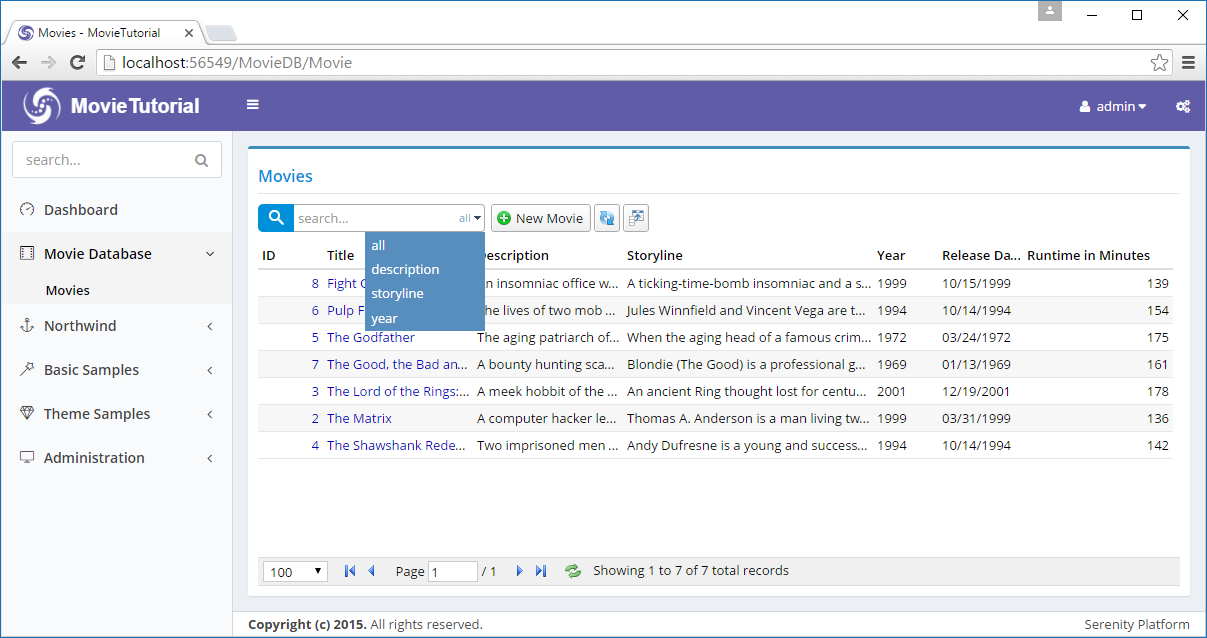
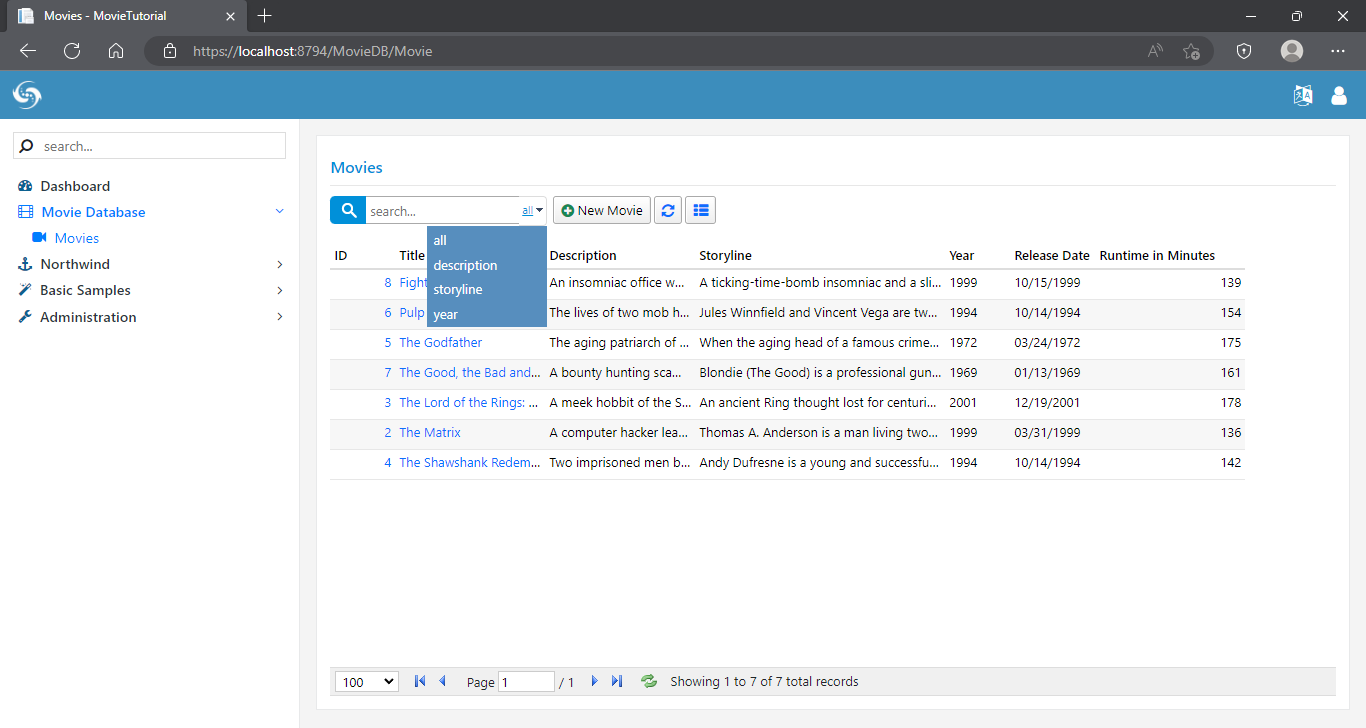
update customizing_quick_search

diff --git a/tutorials/movies/customizing_quick_search.md b/tutorials/movies/customizing_quick_search.md
@@ -7,7 +7,7 @@ For the following sections, we need some sample data. We can copy and paste some
 
 If you don't want to waste your time entering this sample data, it is available as a migration at the link below:
 
-> https://github.com/volkanceylan/MovieTutorial/blob/master/MovieTutorial/MovieTutorial.Web/Modules/Common/Migrations/DefaultDB/DefaultDB_20160519_135200_SampleMovies.cs
+> https://gist.github.com/volkanceylan/0b3e71de6247ad9963e33889f85003bc
 
 
 ![7 Movies Entered](img/mdb_sample_movies.png)
@@ -107,30 +107,29 @@ public Int32? Year
 
 > You might have noticed that we are not writing any C# or SQL code for these basic features to work. We just specify what we want, rather than how to do it. This is what declarative programming is. 
 
-It is also possible to provide user with ability to determine which field she wants to search on.
+It is also possible to provide user with ability to determine which field (s)he wants to search on.
 
 Open *MovieTutorial.Web/Modules/MovieDB/Movie/MovieGrid.ts* and modify it like:
 
 ```ts
+import { Decorators, EntityGrid, QuickSearchField } from '@serenity-is/corelib';
+import { MovieColumns, MovieRow, MovieService } from '../../ServerTypes/MovieDB';
+import { MovieDialog } from './MovieDialog';
 
-namespace MovieTutorial.MovieDB {
-    
-    @Serenity.Decorators.registerClass()
-    export class MovieGrid extends 
-          Serenity.EntityGrid<MovieRow, any> {
-        //...
-        constructor(container: JQuery) {
-            super(container);
-        }
+@Decorators.registerClass('MovieTutorial.MovieDB.MovieGrid')
+export class MovieGrid extends EntityGrid<MovieRow, any> {
+    // ...
+    constructor(container: JQuery) {
+        super(container);
+    }
 
-        protected getQuickSearchFields(): Serenity.QuickSearchField[] {
-            return [
-                { name: "", title: "all" },
-                { name: "Description", title: "description" },
-                { name: "Storyline", title: "storyline" },
-                { name: "Year", title: "year" }
-            ];
-        }
+    protected getQuickSearchFields(): QuickSearchField[] {
+        return [
+            { name: "", title: "all" },
+            { name: "Description", title: "description" },
+            { name: "Storyline", title: "storyline" },
+            { name: "Year", title: "year" }
+        ];
     }
 }
 ```
@@ -151,6 +150,8 @@ Sergen generates some code to transfer such information from server side (rows e
 It is also possible to open a command prompt in project directory and type `dotnet sergen t` to transform templates manually.
 
 From now on, when we say transform templates, it means either rebuilding the application or running `dotnet sergen t` in rare cases.
+
+> If you are using Premium StartSharp template then your code will be generated in development time with source generators.
 
 ### Intellisense on TypeScript Code (After transforming templates)
 
@@ -184,30 +185,31 @@ namespace MovieTutorial.MovieDB
 What about field titles? It is not so critical as field names, but can be useful for localization purposes (if we later decide to translate it):
 
 ```ts
-namespace MovieTutorial.MovieDB
-{
-    //...
-    import fld = MovieRow.Fields;
+import { Decorators, EntityGrid, QuickSearchField } from '@serenity-is/corelib';
+import { text } from '@serenity-is/corelib/q';
+import { MovieColumns, MovieRow, MovieService } from '../../ServerTypes/MovieDB';
+import { MovieDialog } from './MovieDialog';
 
-    public class MovieGrid extends EntityGrid<MovieRow, any>
-    {
-        constructor(container: JQuery) {
-            super(container);
-        }
+@Decorators.registerClass('MovieTutorial.MovieDB.MovieGrid')
+export class MovieGrid extends EntityGrid<MovieRow, any> {
+   // ...
 
-        protected getQuickSearchFields(): Serenity.QuickSearchField[] {
-            const txt = (s) => 
-                Q.text(`Db.${MovieRow.localTextPrefix}.${s}`).toLowerCase();
-
-            return [
-                { name: "", title: "all" },
-                { name: fld.Description, title: txt(fld.Description) },
-                { name: fld.Storyline, title: txt(fld.Storyline) },
-                { name: fld.Year, title: txt(fld.Year) }
-            ];
-        }
+    constructor(container: JQuery) {
+        super(container);
     }
-    ///...
+
+    protected getQuickSearchFields(): QuickSearchField[] {
+        const txt = (s) =>
+            text(`Db.${MovieRow.localTextPrefix}.${s}`).toLowerCase();
+        const fld = MovieRow.Fields;
+
+        return [
+            { name: "", title: "all" },
+            { name: fld.Description, title: txt(fld.Description) },
+            { name: fld.Storyline, title: txt(fld.Storyline) },
+            { name: fld.Year, title: txt(fld.Year) }
+        ];
+    }
 }
 ```
 
